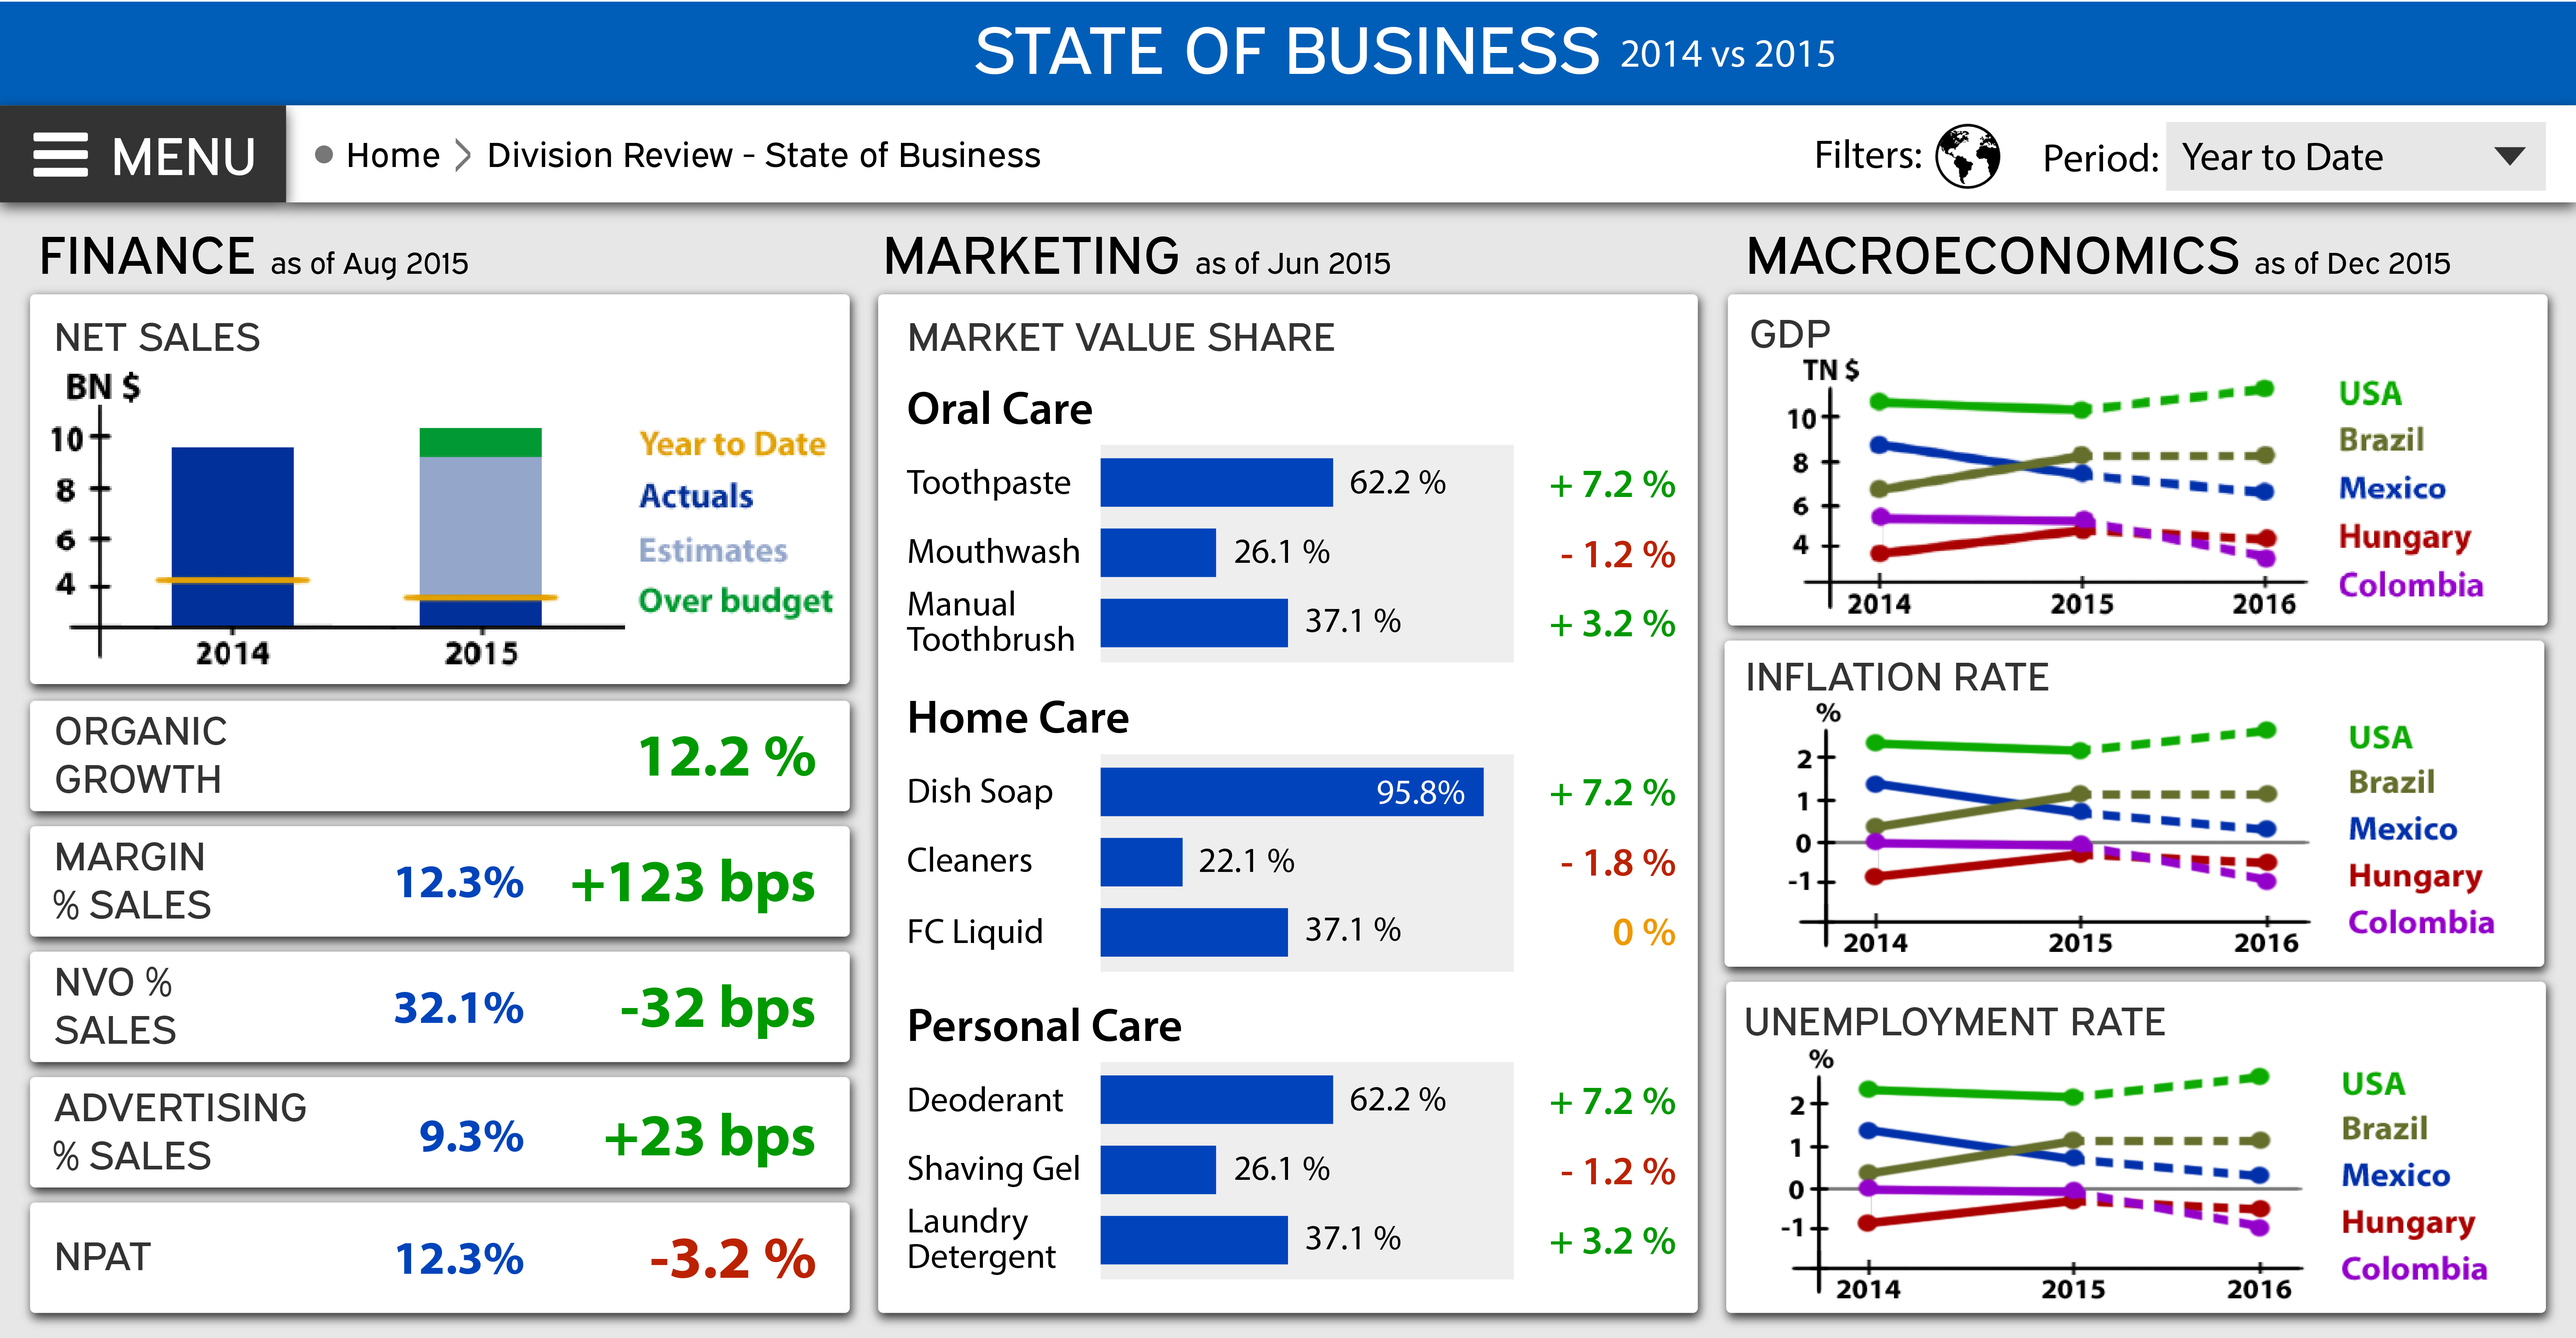
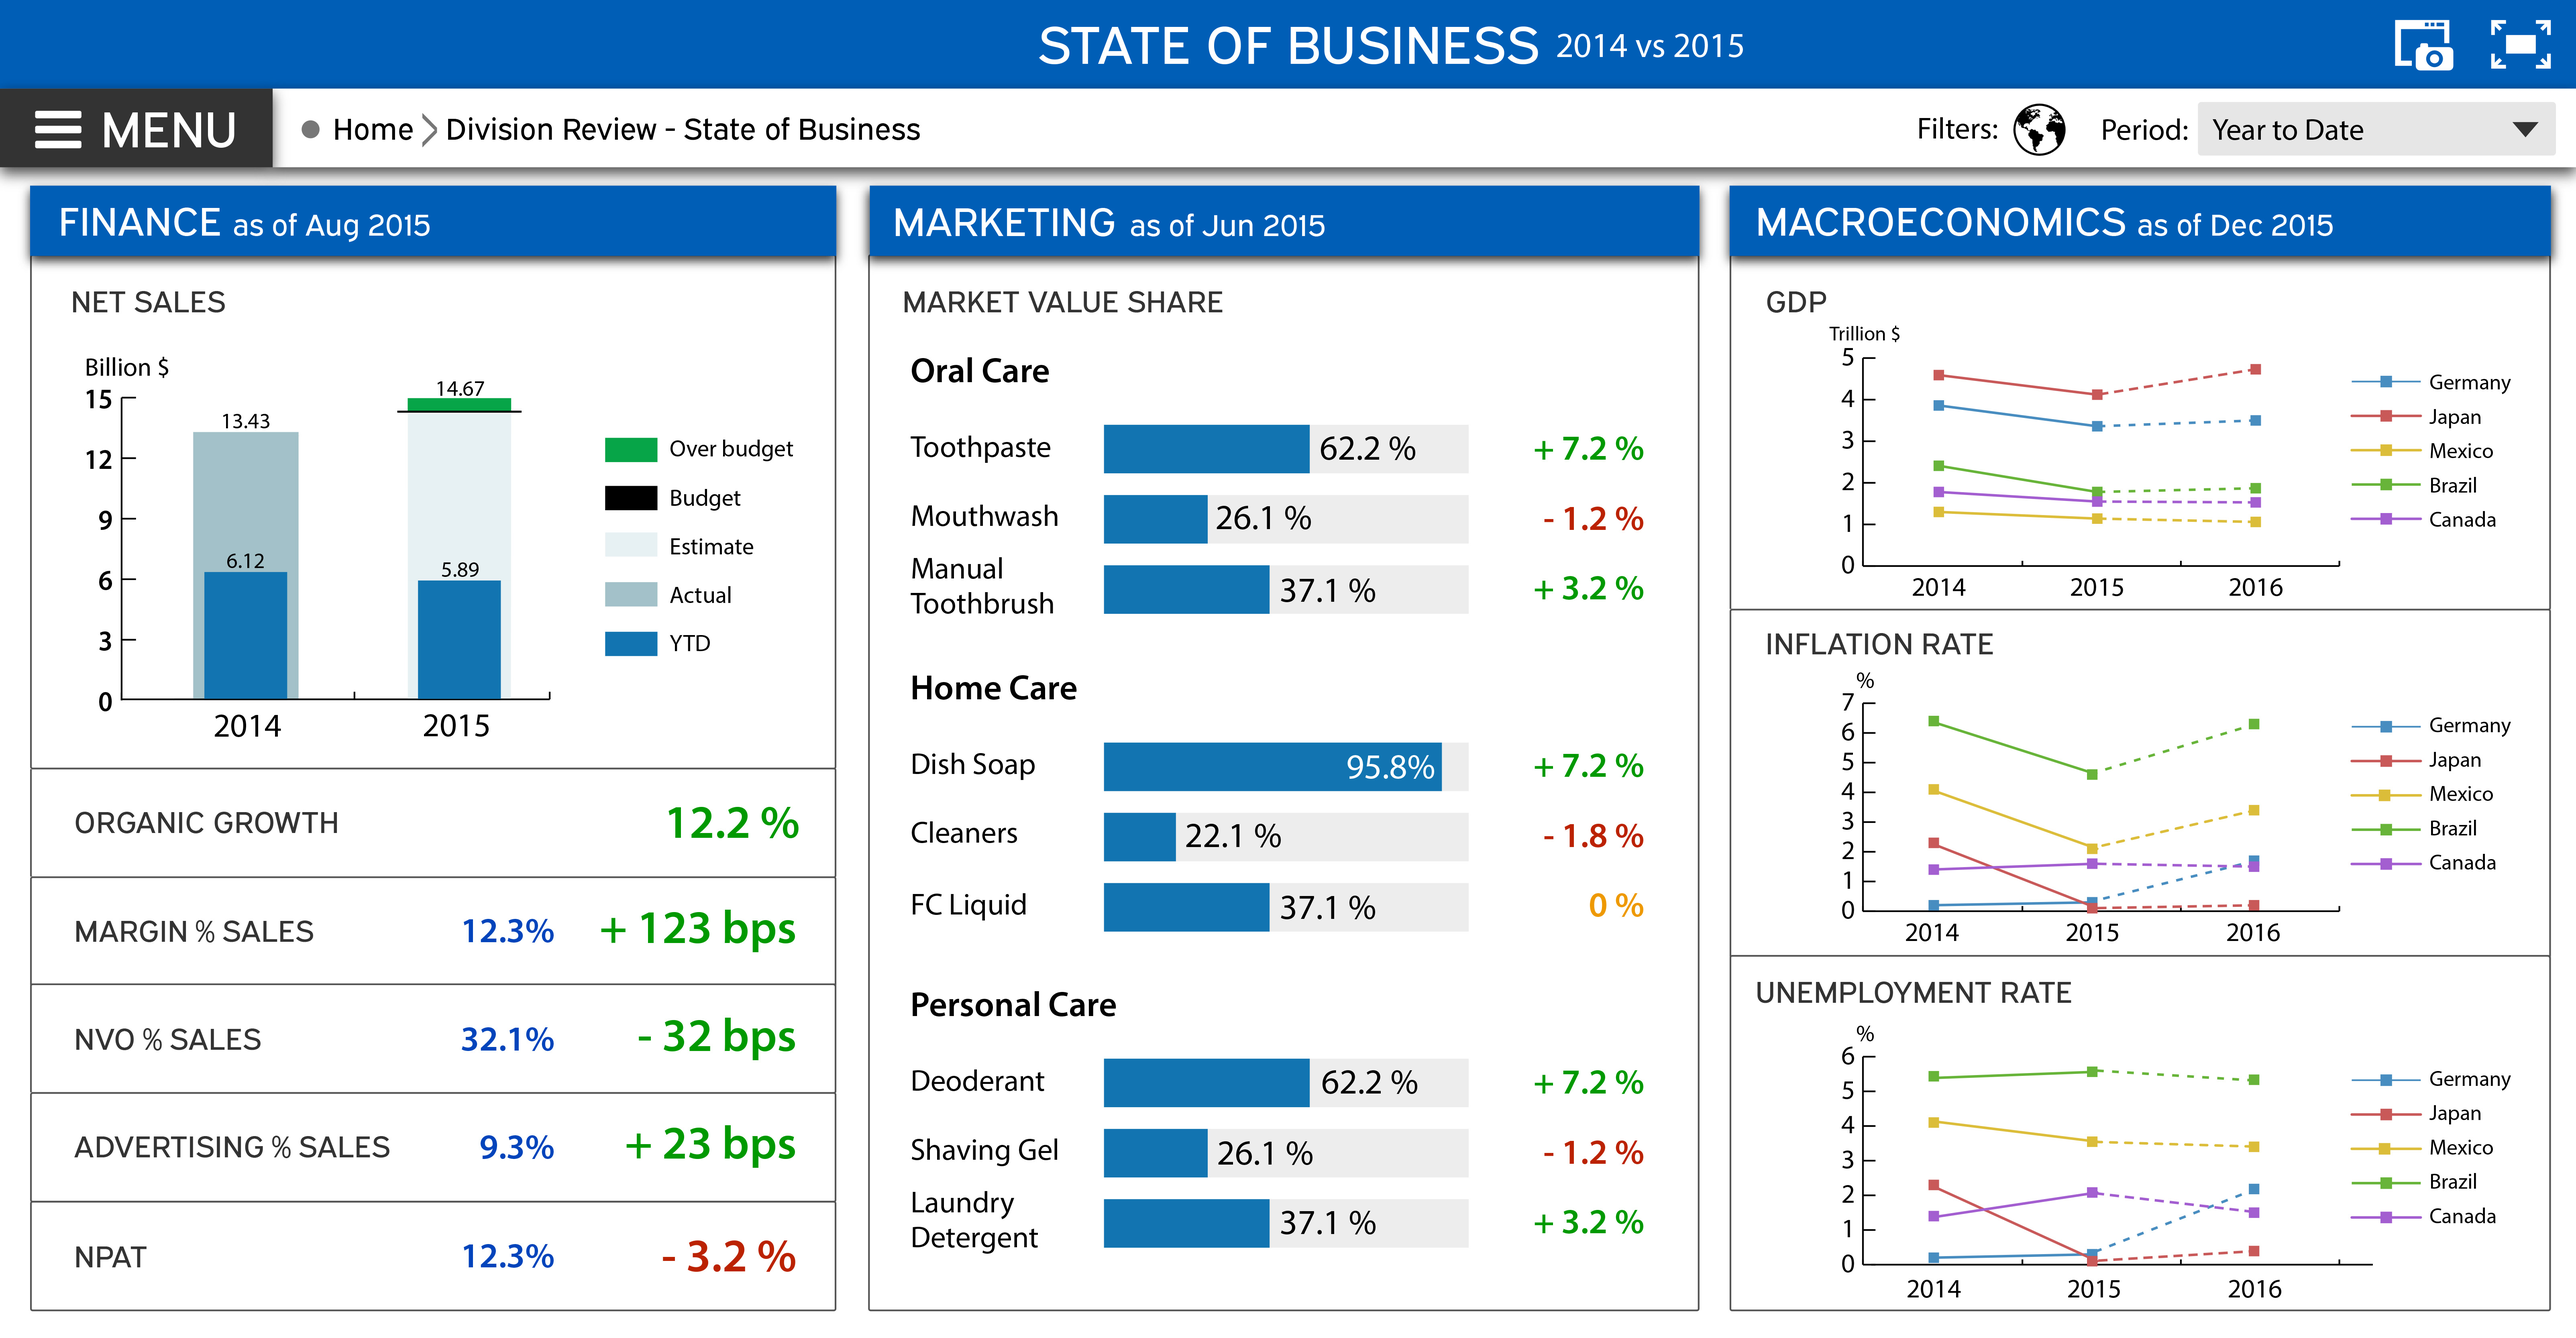
Redid BROF images without censor attempt 2

diff --git a/brof-ux-overhaul/index.html b/brof-ux-overhaul/index.html
@@ -154,7 +154,7 @@
 
                                     <p>This requirement poses a few challenges &mdash; we have to fit a substantial amount of elements above the fold to provide an at-a-glance overview of the business, and ensure each page is still presentable on larger displays.</p>
 										
-									<p style="float:right;max-width:75%;margin-left:25%;">Note: Legible data in this walkthrough is simulated.</p>
+									<p style="float:right;max-width:75%;margin-left:25%;color:coral">Note: Legible data in this walkthrough is simulated.</p>
 
                               
                                     <p><strong>Role</strong><br/>
@@ -195,10 +195,11 @@
 								
 								<li class="work-text">
 									<div>
-										<p id="section-title">Landing Page</p>
+										<p id="section-title">Landing Page (Home)</p>
 										<p>We were certain users launch this application to either view/edit an item or create an item. An item here would either be an analytics dashboard (a story) or a presentation deck.</p>
-										<p>The new landing page differentiates between stories and presentations, and for both there are items created by the user, and items created and published by other employees. After the distinction was made, it made sense to employ a two-column layout, and order the subgroups by priority.</p>
-										<p>Visually, significant emphasis was placed on the item creation buttons and a thumbnail image was included in each tile in place of a chart or folder icon.</p>
+										<p>The new landing page differentiates between stories and presentations, and for both there are items created by the user, and items created and published by other employees. After the distinction was made, it made sense to employ a two-column layout, and order the subgroups by priority. These subgroups can be collapse and expanded with the triangular icon by the subgroup label.</p>
+										<p>As more items are added to BRoF, searching and viewing items in a list would serve very useful, so elements to do such were created and placed in the tool bar.</p>
+										<p>Visually, instead of icons representing charts and presentations, actual thumbnails are used. This is to reduce the user's memory load by providing a visual aid to boost their recognition process. Also, significant emphasis was placed on the item creation buttons and a thumbnail image was included in each tile in place of a chart or folder icon.</p>
 									</div>		
 								</li>
  								<li><hr class="short-bold"><img src="/images/work/brof/brof-dashboard-before.png" alt="" class="img-responsive"/></li>
@@ -209,12 +210,12 @@
 									<div>
 										<p id="section-title">General Layout</p>
 										<p id="section-subtitle">Visual hierarchy</p>
-										<p>We enlarged the text for the higher-level items 'Finance', 'Marketing', and 'Macroeconomics' to better show hierachy and grouping. Then, 'as of month' was moved to the immediate right of the category labels for a natural reading flow.</p>
+										<p>We highlighted and enlarged the text for the higher-level items 'Finance', 'Marketing', and 'Macroeconomics' to better show hierachy and grouping. Then, 'as of month' was moved to the immediate right of the category labels for a natural reading flow.</p>
 										<p id="section-subtitle">Proximity of filtering elements</p>
 										<p>There can be up to three filter groups such as 'Geography' in the top-left. Filtering with these groups and using the 'Period' dropdown menu on the top-right do very similar things from the user's perspective, yet they were unintuitively placed at opposite ends of the screen.</p>
 										<p>After a brief survey, we gathered that the globe icon along with the 'Filter' label conveys a geography filter clearly enough, so we removed its label to reduce clutter. All that was left to be done here was to put the filtering icons next to the dropdown period filter.</p>
 										<p id="section-subtitle">Description and Expand buttons</p>
-										<p>The description and expand buttons on each panel item was removed. Descriptions are to be replaced with a tooltip upon hovering over the labels, and expanding an item can still be done with clicking.</p>
+										<p>The description and expand buttons on each panel item was removed. Descriptions are to be replaced with the affordance of a tooltip upon hovering over the labels, and expanding an item can still be done with clicking.</p>
 										<p id="section-subtitle">Other minor changes</p>
 										<p>We also increased font size for better legibility, removed unncessassary text decorations, and page elements were condensed to display more above the fold.</p>
 										<p>Some inconsistencies, such as the positioning of year-over-year deltas in relation to key performance indicators' current values and the color representation of deltas (good vs. bad change), were flushed out.</p>
